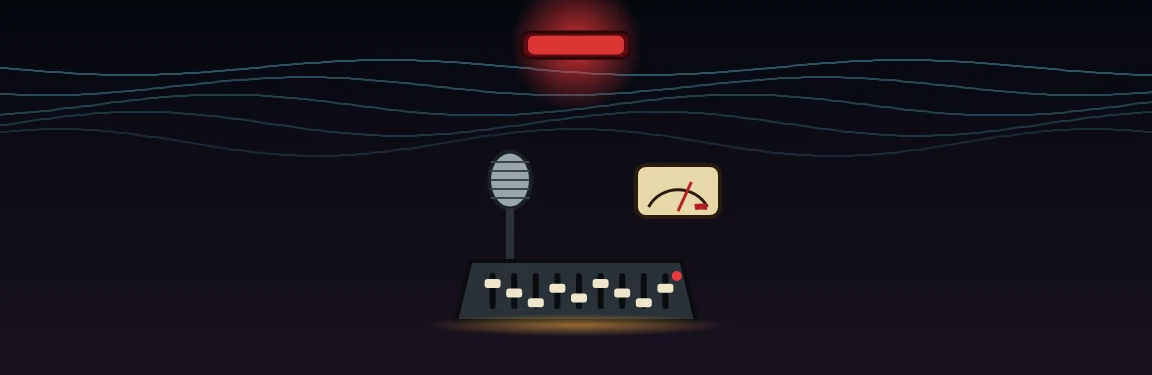
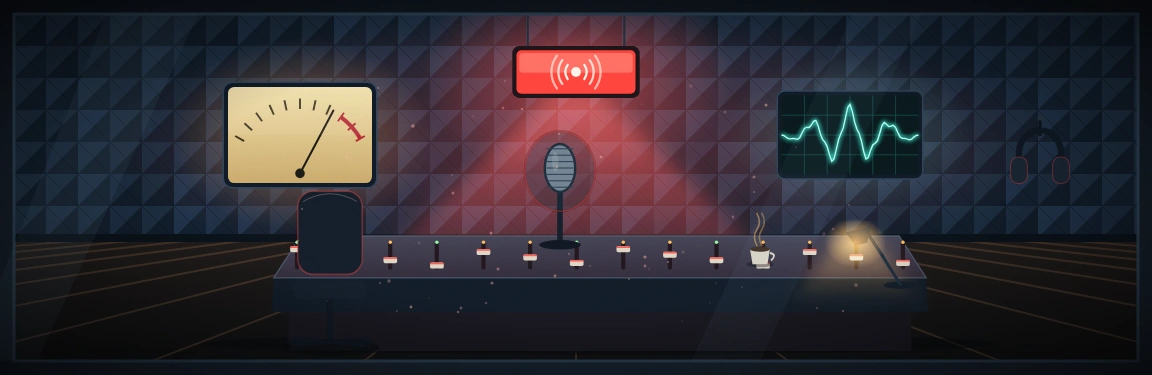
Capas, miniaturas e cartões novos dos casos 03 e 04 (cenas completas) com versão na URL (#99)
Claude-Session: https://claude.ai/code/session_015tfXN2LHrSJNSLNMARGbDc

diff --git a/js/26-rapidos.js b/js/26-rapidos.js
@@ -16,7 +16,7 @@ const rqPt=()=>ptId()&&!RQ.pno;
 const rqPaid=()=>Math.max(0,RQ.hint-(RQ.free&&rqPt()?1:0));
 window.rqDone=()=>RQC.filter(c=>RQM().done[c.id]).length;
 window.rqTabs=()=>`<div class=rqt><button class="${RQT===0?'on':''}" onclick="RQT=0;render()">Principais</button><button class="${RQT===1?'on':''}" onclick="RQT=1;render()">Rápidos <small>${rqDone()}/${RQC.length}</small></button><button class="${RQT===2?'on':''}" onclick="RQT=2;render()">Linha do tempo</button></div>`;
-window.rqList=()=>`<p class="mut rqsub">Casos curtos para jogar em poucos minutos: 3 suspeitos, algumas provas e uma contradição. Sem relógio. <b>${rqDone()} de ${RQC.length} concluídos.</b></p>${RQC.map(c=>{const d=RQM().done[c.id],p=RQM().prog[c.id],st=d?'Concluído':(p&&(p.asked.length||p.seen))?'Em andamento':'Novo';return `<button class=rqcard onclick="rqOpen('${c.id}')"><span class=rqcs><img src="assets/casos/cartao_${c.id}.webp" alt="" loading=lazy draggable=false></span><span class=rqci><b>${esc(c.titulo)}</b><small>${esc(c.cenario.local.split(',')[0])}</small><span class=rqcf>${c.suspeitos.map(s=>rqAv(c,s.id,26)).join('')}<em class="${d?'ok':''}">${d?rqStars(d):st}</em></span></span></button>`}).join('')}`;
+window.rqList=()=>`<p class="mut rqsub">Casos curtos para jogar em poucos minutos: 3 suspeitos, algumas provas e uma contradição. Sem relógio. <b>${rqDone()} de ${RQC.length} concluídos.</b></p>${RQC.map(c=>{const d=RQM().done[c.id],p=RQM().prog[c.id],st=d?'Concluído':(p&&(p.asked.length||p.seen))?'Em andamento':'Novo';return `<button class=rqcard onclick="rqOpen('${c.id}')"><span class=rqcs><img src="assets/casos/cartao_${c.id}.webp${IMV(c.id)}" alt="" loading=lazy draggable=false></span><span class=rqci><b>${esc(c.titulo)}</b><small>${esc(c.cenario.local.split(',')[0])}</small><span class=rqcf>${c.suspeitos.map(s=>rqAv(c,s.id,26)).join('')}<em class="${d?'ok':''}">${d?rqStars(d):st}</em></span></span></button>`}).join('')}`;
 window.rqOpen=id=>{const c=rqC(id),p=RQM().prog[id];RQ={id,asked:p?p.asked.slice():[],inv:p?p.inv.slice():[],seen:p?p.seen:0,hint:p?p.hint:0,ct:p?p.ct:0,tab:'su',su:null,sel:{},acc:null,fin:null,pv:null,hs:0,res:0,v:p&&p.seen?'main':'intro',nw:[],err:0,pal:p&&p.pal?Object.assign({},p.pal):{},free:p&&p.free!==undefined?p.free:!!(ptFree()&&!PTM().no[id]),pp:null,pop:0,rx:null,pf:0,cho:PTM().q[id]?0:1,pno:p&&p.pno!==undefined?p.pno:(PTM().no[id]?1:0)};if(p&&p.seen&&(p.asked.length||p.ct))RQ.res=1;render()};
 window.rqStart=()=>{RQ.v='main';RQ.seen=1;{META.how=META.how||{};if(!META.how.rq){META.how.rq=1;msave();RQ.how=1}}rqSave();rqPal();render()};
 window.rqExit=()=>{RQ=null;render()};
@@ -54,7 +54,7 @@ window.rqRc=v=>{RQ.rc=v;render()};
 window.rqHow=v=>{RQ.how=v;render()};
 const HWS={rq:['Converse com cada suspeito e leia as respostas: elas podem liberar provas novas.','Abra as provas para examinar. Algumas só aparecem depois de certas conversas.','Em Acusar, ligue a fala que não bate à prova que a desmente. Depois escolha o culpado.'],tl:['Toque na etiqueta de cada fato para ler a prova ou o depoimento. Cada fonte traz uma pista de ordem.','Segure a alça à esquerda do fato e arraste até a posição certa. As setas também movem.','Um depoimento não bate com as provas: abra-o e marque como suspeito. Depois toque em Conferir.']};
 window.howModal=(k,close)=>`<div class=rqmd onclick="${close}"><div class="rqmc rcm" onclick="event.stopPropagation()"><small>COMO JOGAR</small><h3>${k==='tl'?'Linha do tempo':'Casos rápidos'}</h3><video class=hwv src="assets/v/howto_${k}.mp4" poster="assets/v/howto_${k}.jpg" autoplay loop muted playsinline webkit-playsinline preload=auto></video><ol class=hws>${HWS[k].map(x=>`<li>${x}</li>`).join('')}</ol><button class=rqbtn onclick="${close}">Entendi</button></div></div>`;
-window.rcBrief=(c,close,tl)=>`<div class=rqmd onclick="${close}"><div class="rqmc rcm" onclick="event.stopPropagation()"><img class=rcimg src="assets/casos/mini_${c.id}.webp" alt="" draggable=false><small>${tl?'LINHA DO TEMPO':'CASO RÁPIDO'} · RELEMBRAR O CASO</small><h3>${esc(c.titulo)}</h3><p class=rcl><b>Local:</b> ${esc(c.cenario.local)}${c.cenario.horario_do_crime?`<br><b>Horário do crime:</b> ${esc(c.cenario.horario_do_crime)}`:''}</p><p class=rqp style="margin:8px 0">${esc(c.cenario.resumo)}</p><div class=rqchf>${av('chefe',44)}<p>${esc(tl?c.abertura:c.abertura_chefe)}</p></div><div class=rcs><small>QUEM ESTAVA POR PERTO</small>${c.suspeitos.map(s=>`<div class=rcr>${tl?'':rqAv(c,s.id,34)}<span><b>${esc(s.nome)}</b>${s.papel?`<i>${esc(s.papel)}${s.idade?' · '+s.idade+' anos':''}</i>`:''}</span></div>`).join('')}</div><button class="rqbtn gh" onclick="${tl?'tlRc(0);tlHow(1)':'rqRc(0);rqHow(1)'}">Como jogar</button><button class=rqbtn onclick="${close}">Fechar</button></div></div>`;
+window.rcBrief=(c,close,tl)=>`<div class=rqmd onclick="${close}"><div class="rqmc rcm" onclick="event.stopPropagation()"><img class=rcimg src="assets/casos/mini_${c.id}.webp${IMV(c.id)}" alt="" draggable=false><small>${tl?'LINHA DO TEMPO':'CASO RÁPIDO'} · RELEMBRAR O CASO</small><h3>${esc(c.titulo)}</h3><p class=rcl><b>Local:</b> ${esc(c.cenario.local)}${c.cenario.horario_do_crime?`<br><b>Horário do crime:</b> ${esc(c.cenario.horario_do_crime)}`:''}</p><p class=rqp style="margin:8px 0">${esc(c.cenario.resumo)}</p><div class=rqchf>${av('chefe',44)}<p>${esc(tl?c.abertura:c.abertura_chefe)}</p></div><div class=rcs><small>QUEM ESTAVA POR PERTO</small>${c.suspeitos.map(s=>`<div class=rcr>${tl?'':rqAv(c,s.id,34)}<span><b>${esc(s.nome)}</b>${s.papel?`<i>${esc(s.papel)}${s.idade?' · '+s.idade+' anos':''}</i>`:''}</span></div>`).join('')}</div><button class="rqbtn gh" onclick="${tl?'tlRc(0);tlHow(1)':'rqRc(0);rqHow(1)'}">Como jogar</button><button class=rqbtn onclick="${close}">Fechar</button></div></div>`;
 function rqModals(c){let m='';if(RQ.how)m+=howModal('rq','rqHow(0)');if(RQ.rc)m+=rcBrief(c,'rqRc(0)');
 if(RQ.res){const p=rqProvas(c).length;m+=`<div class=rqmd><div class=rqmc><small>RESUMO DE ONDE VOCÊ PAROU</small><h3>${esc(c.titulo)}</h3><p>Provas: ${p} de ${c.provas.length}<br>Perguntas feitas: ${RQ.asked.length} de 6<br>Contradição: ${RQ.ct?'confirmada':'ainda não marcada'}<br>Dicas usadas: ${RQ.hint} de ${c.dicas.length}</p><button class=rqbtn onclick="RQ.res=0;rqPal();render()">Continuar</button></div></div>`}
 if(RQ.pv){const p=c.provas.find(x=>x.id===RQ.pv);m+=`<div class=rqmd onclick="rqPv(null)"><div class=rqmc onclick="event.stopPropagation()">${rqIl(c.id+p.id,'width:100%;border-radius:12px',1)}<h3>${esc(p.nome)}</h3><p>${esc(p.descricao)}</p><button class=rqbtn onclick="rqPv(null)">Fechar</button></div></div>`}
@@ -64,7 +64,7 @@ const rqSay=c=>{const p=ptD();return Object.values(RQ.pal).some(v=>v==='confiar'
 function rqFinal(c){const f=RQ.fin;if(f.ok)return `<div class="rqv fin"><div class=rqfin><div class=rqfst>${rqStars(f.st)}</div><small>CASO RESOLVIDO</small><h2>${esc(c.titulo)}</h2><p>${esc(c.final.acerto)}</p><div class=rqok style="text-align:left"><small>COMO FOI</small><p>${esc(c.solucao.como)} Motivo: ${esc(c.solucao.motivo.charAt(0).toLowerCase()+c.solucao.motivo.slice(1))}</p></div><p class=rqp>Dicas usadas: ${RQ.hint}${RQ.free&&rqPt()?' (uma foi cortesia do parceiro)':''}</p>${rqPt()?`<div class=ptfin>${ptAv(ptId(),48,'a')}<p>“${esc(rqSay(c))}”</p></div>`:''}<button class=rqbtn onclick="rqExit()">Voltar aos casos rápidos</button><button class="rqbtn gh" onclick="rqReplay()">Jogar de novo</button></div></div>`;
 return `<div class="rqv fin"><div class=rqfin><small>ACUSAÇÃO ERRADA</small><h2>Ainda não foi desta vez</h2><p>${esc(c.final.erro)}</p><button class=rqbtn onclick="rqRetry()">Tentar de novo</button><button class="rqbtn gh" onclick="rqExit()">Voltar aos casos rápidos</button></div></div>`}
 function rqView(){const c=rqC(RQ.id);if(RQ.fin)return rqFinal(c);
-if(RQ.v==='intro')return `<div class="rqv intro"><div class=rqsc><img src="assets/casos/mini_${c.id}.webp" alt="" draggable=false></div><div class=rqin><small>CASO RÁPIDO · ${esc(c.cenario.local.split(',')[0]).toUpperCase()}</small><h2>${esc(c.titulo)}</h2><p class=rqres>${esc(c.cenario.resumo)}</p><div class=rqchf>${av('chefe',44)}<p>${esc(c.abertura_chefe)}</p></div>${rqPt()?`<button class=ptrow onclick="RQ.cho=1;render()">${ptAv(ptId(),34,'n')}<span>Seu parceiro: <b>${ptD().nome} ${ptD().sobrenome}</b> · trocar</span></button>`:''}<button class="rqbtn gh" onclick="rqHow(1)">Como jogar</button><button class=rqbtn onclick="rqStart()">Começar</button><button class="rqbtn gh" onclick="rqExit()">Voltar</button></div>${RQ.how?howModal('rq','rqHow(0)'):''}${ptModals(c)}</div>`;
+if(RQ.v==='intro')return `<div class="rqv intro"><div class=rqsc><img src="assets/casos/mini_${c.id}.webp${IMV(c.id)}" alt="" draggable=false></div><div class=rqin><small>CASO RÁPIDO · ${esc(c.cenario.local.split(',')[0]).toUpperCase()}</small><h2>${esc(c.titulo)}</h2><p class=rqres>${esc(c.cenario.resumo)}</p><div class=rqchf>${av('chefe',44)}<p>${esc(c.abertura_chefe)}</p></div>${rqPt()?`<button class=ptrow onclick="RQ.cho=1;render()">${ptAv(ptId(),34,'n')}<span>Seu parceiro: <b>${ptD().nome} ${ptD().sobrenome}</b> · trocar</span></button>`:''}<button class="rqbtn gh" onclick="rqHow(1)">Como jogar</button><button class=rqbtn onclick="rqStart()">Começar</button><button class="rqbtn gh" onclick="rqExit()">Voltar</button></div>${RQ.how?howModal('rq','rqHow(0)'):''}${ptModals(c)}</div>`;
 const nav=[['su','Suspeitos'],['pr','Provas'],['cv','Conversas'],['ac','Acusar']];
 return `<div class=rqv><div class=rqtop>${ib('back','Voltar aos casos rápidos','rqExit()')}<span>${esc(c.titulo)}</span>${rqPt()?`<button class=ib aria-label="Perfil do parceiro" onclick="ptPf(1)" style="padding:0">${ptAv(ptId(),34,'n')}</button>`:''}${ib('note','Relembrar o caso','rqRc(1)')}${ib('hint','Dicas da chefe','rqHs(1)')}</div><div class=rqb id=rqb>${rqBody(c)}</div><nav class=rqn>${nav.map(([k,n])=>`<button class="${RQ.tab===k?'on':''}" onclick="rqTab('${k}')">${rqIcon(k)}<span>${n}</span>${k==='pr'&&RQ.nw.length&&RQ.tab!=='pr'?'<i></i>':''}</button>`).join('')}</nav>${ptBanner()}${rqModals(c)}${ptModals(c)}</div>`}
 {const _r=render;render=function(){let sb=0;if(RQ){const b=document.getElementById('rqb');sb=b?b.scrollTop:0}_r.apply(this,arguments);if(RQ){const u=$('#ui');if(u&&u.insertAdjacentHTML){u.insertAdjacentHTML('beforeend',rqView());const b=document.getElementById('rqb');if(b){b.scrollTop=RQ.sb==='end'?b.scrollHeight:RQ.sb==='top'?0:sb;RQ.sb=0}}}}}

diff --git a/js/37-dc-tela.js b/js/37-dc-tela.js
@@ -35,7 +35,7 @@ else{n=5;t='Votem na acusação';go='ac';d='Vocês já têm contradições sufic
 return{n,t,go,d,g}}
 function dcView(){if(!DC.on||!DC.open||!DC.cs)return '';const c=DC.cs,st=dcState(),w=dcRole();
 if(st.fim)return dcFim(c,st,w);
-if(DC.v==='intro')return `<div class="rqv intro dcv">${dcHas(c.id,'mini')?`<div class=rqsc><img src="assets/casos/mini_${c.id}.webp" alt="" draggable=false></div>`:''}<div class=rqin style="padding-top:${dcHas(c.id,'mini')?14:36}px"><small>DUPLA ONLINE · ${esc(c.cenario.local.split(',')[0]).toUpperCase()}</small><h2>${esc(c.titulo)}</h2><p class=rqres>${esc(c.cenario.resumo)}</p><div class=dcme><b>Você é ${esc(dcMy())}</b><span>${dcChip(w)} · ${esc(dcPartner())} é ${dcChip(dcOth())}</span></div><div class=rqchf>${av('chefe',44)}<p>${esc((c.abertura&&c.abertura[w])||c.abertura_chefe||'')}</p></div><p class=rqp style="margin:8px 0">Cada um investiga a sua parte. Para resolver, vocês vão precisar trocar provas e falas. ${c.duracao_min?'Duração: cerca de '+c.duracao_min+' minutos.':''}</p><button class=rqbtn onclick="DC.v='main';render()">Começar</button><button class="rqbtn gh" onclick="dcBack()">Voltar à sala</button></div></div>`;
+if(DC.v==='intro')return `<div class="rqv intro dcv">${dcHas(c.id,'mini')?`<div class=rqsc><img src="assets/casos/mini_${c.id}.webp${IMV(c.id)}" alt="" draggable=false></div>`:''}<div class=rqin style="padding-top:${dcHas(c.id,'mini')?14:36}px"><small>DUPLA ONLINE · ${esc(c.cenario.local.split(',')[0]).toUpperCase()}</small><h2>${esc(c.titulo)}</h2><p class=rqres>${esc(c.cenario.resumo)}</p><div class=dcme><b>Você é ${esc(dcMy())}</b><span>${dcChip(w)} · ${esc(dcPartner())} é ${dcChip(dcOth())}</span></div><div class=rqchf>${av('chefe',44)}<p>${esc((c.abertura&&c.abertura[w])||c.abertura_chefe||'')}</p></div><p class=rqp style="margin:8px 0">Cada um investiga a sua parte. Para resolver, vocês vão precisar trocar provas e falas. ${c.duracao_min?'Duração: cerca de '+c.duracao_min+' minutos.':''}</p><button class=rqbtn onclick="DC.v='main';render()">Começar</button><button class="rqbtn gh" onclick="dcBack()">Voltar à sala</button></div></div>`;
 const nav=[['su','Suspeitos'],['pr','Provas'],['ms','Mesa'],['ac','Acusar']],T=DC.tab==='cv'?'su':DC.tab;
 return `<div class="rqv dcv"><div class=rqtop>${ib('back','Voltar à sala','dcBack()')}<span>${esc(c.titulo)}</span><button class=dcpav aria-label="Mensagens com ${esc(dcPartner())}" title="Conversar com ${esc(dcPartner())}" onclick="DC.chat=1;DC.un=0;render()">${dcAvParc(34)}<i class="dcon ${DC.conn[1-DC.me]?'on':''}"></i>${DC.un?`<em class=dcun>${DC.un}</em>`:''}</button>${ib('hint','Dicas','DC.hint=1;render()')}</div>${dcStrip(c,st,w)}<div class=rqb id=rqb>${dcBody(c,st,w)}</div><nav class=rqn>${nav.map(([k,n])=>`<button class="${T===k?'on':''}" onclick="DC.tab='${k}';DC.su=null;render()">${rqIcon(k==='ms'?'cv':k)}<span>${n}</span>${k==='ms'&&DC.un&&T!=='ms'?'<i></i>':''}</button>`).join('')}</nav>${dcModals(c,st,w)}</div>`}
 function dcStrip(c,st,w){const S=dcStage(c,st,w);return `<button class=dcflow onclick="DC.flow=1;render()" aria-label="Ver o andamento da investigação"><span class=dcsteps>${[1,2,3,4,5].map(i=>`<i class="${i<S.n?'dn':i===S.n?'cur':''}"></i>`).join('')}</span><span class=dcft><small>ETAPA ${S.n} DE 5</small><b>${esc(S.t)}</b></span><em>›</em></button>`}
@@ -126,9 +126,9 @@ const dcCasos=()=>DCC.filter(c=>!c.oculto);
 /* capas noir existentes: preencher quando as imagens forem instaladas em assets/casos */
 window.DCART=window.DCART||{};const dcHas=(id,k)=>!!(DCART[id]&&DCART[id][k]);
 window.rqTabs=()=>`<div class=rqt><button class="${RQT===0?'on':''}" onclick="RQT=0;render()">Principais</button><button class="${RQT===1?'on':''}" onclick="RQT=1;render()">Rápidos <small>${rqDone()}/${RQC.length}</small></button><button class="${RQT===2?'on':''}" onclick="RQT=2;render()">Linha do tempo</button><button class="${RQT===3?'on':''}" onclick="RQT=3;render()">Dupla</button></div>`;
-window.dcList=()=>`${DC.on?`<div class=dcbn><b>Você está na sala ${esc(DC.cod)}</b><span>${DC.cs?'Caso em andamento: '+esc(DC.cs.titulo):'Nenhum caso escolhido ainda.'}</span><div>${DC.cs?`<button onclick="dcEnter()">Voltar ao jogo</button>`:''}<button onclick="DC.st='lobby';dcMod()">Ver a sala</button></div></div>`:''}<p class="mut rqsub">Casos feitos só para <b>duas pessoas jogando juntas, cada uma no seu celular</b>. Cada um vê uma parte do caso, e só se resolve trocando provas e falas. Precisa de internet. Sem relógio.</p>${dcCasos().map(c=>`<button class=rqcard onclick="dcCard('${c.id}')"><span class="rqcs dcnoir">${dcHas(c.id,'cartao')?`<img src="assets/casos/cartao_${c.id}.webp" alt="" loading=lazy draggable=false>`:''}<i class=dcbadge>DUPLA ONLINE</i></span><span class=rqci><b>${esc(c.titulo)}</b><small>${esc(c.cenario.local.split(',')[0])} · ~${c.duracao_min||30} min</small><span class=rqcf>${c.suspeitos.slice(0,5).map(s=>dcAv(s,26)).join('')}<em>2 jogadores</em></span></span></button>`).join('')}`;
+window.dcList=()=>`${DC.on?`<div class=dcbn><b>Você está na sala ${esc(DC.cod)}</b><span>${DC.cs?'Caso em andamento: '+esc(DC.cs.titulo):'Nenhum caso escolhido ainda.'}</span><div>${DC.cs?`<button onclick="dcEnter()">Voltar ao jogo</button>`:''}<button onclick="DC.st='lobby';dcMod()">Ver a sala</button></div></div>`:''}<p class="mut rqsub">Casos feitos só para <b>duas pessoas jogando juntas, cada uma no seu celular</b>. Cada um vê uma parte do caso, e só se resolve trocando provas e falas. Precisa de internet. Sem relógio.</p>${dcCasos().map(c=>`<button class=rqcard onclick="dcCard('${c.id}')"><span class="rqcs dcnoir">${dcHas(c.id,'cartao')?`<img src="assets/casos/cartao_${c.id}.webp${IMV(c.id)}" alt="" loading=lazy draggable=false>`:''}<i class=dcbadge>DUPLA ONLINE</i></span><span class=rqci><b>${esc(c.titulo)}</b><small>${esc(c.cenario.local.split(',')[0])} · ~${c.duracao_min||30} min</small><span class=rqcf>${c.suspeitos.slice(0,5).map(s=>dcAv(s,26)).join('')}<em>2 jogadores</em></span></span></button>`).join('')}`;
 window.dcCard=id=>{DC.card=id;render()};
 window.dcCardX=()=>{DC.card=null;render()};
 function dcCardView(){const c=dcCase(DC.card);if(!c)return '';const id=c.id,hostOn=DC.on&&DC.host,guestOn=DC.on&&!DC.host,both=DC.names[0]&&DC.names[1];
 const same=DC.on&&DC.cs&&DC.cs.id===id,sala=DC.on?`<button class="rqbtn gh" onclick="DC.st='lobby';dcMod()">Ver a sala (${esc(DC.cod)})</button>`:'';const act=same?`<button class=rqbtn onclick="dcEnter()">Voltar ao jogo</button>${sala}`:hostOn&&both?`<button class=rqbtn onclick="dcStart('${id}')">Jogar este caso agora com ${esc(dcPartner())}</button>${sala}`:guestOn?`<p class=rqp>Você está numa sala como convidado(a). Quem criou a sala escolhe o caso.</p>${DC.cs?`<button class=rqbtn onclick="dcEnter()">Entrar no caso: ${esc(DC.cs.titulo)}</button>`:''}${sala}`:hostOn?`<p class=rqp>Sua sala está aberta. Quando a outra pessoa entrar, o botão para começar aparece aqui.</p>${sala}`:`<button class=rqbtn onclick="DC.want='${id}';DC.st='home';dcMod()">Criar uma sala e convidar alguém</button><button class="rqbtn gh" onclick="DC.want='${id}';DC.st='join';dcMod()">Entrar numa sala com um código</button>`;
-return `<div class="rqv intro dcv">${dcHas(id,'mini')?`<div class=rqsc><img src="assets/casos/mini_${id}.webp" alt="" draggable=false></div>`:''}<div class=rqin style="padding-top:${dcHas(id,'mini')?14:36}px"><small>JOGO EM DUPLA ONLINE · ${esc(c.cenario.local.split(',')[0]).toUpperCase()}</small><h2>${esc(c.titulo)}</h2><p class=rqres>${esc(c.cenario.resumo)}</p><div class=dcchips><span>👥 2 celulares</span><span>⏱ ~${c.duracao_min||30} min</span><span>🌐 internet</span></div><p class=dcsm>Cada um vê só a sua parte. Vocês trocam provas e falas, abrem travas juntos e votam juntos na acusação.</p>${act}<button class="rqbtn gh" onclick="dcCardX()">Voltar</button></div></div>`}
+return `<div class="rqv intro dcv">${dcHas(id,'mini')?`<div class=rqsc><img src="assets/casos/mini_${id}.webp${IMV(id)}" alt="" draggable=false></div>`:''}<div class=rqin style="padding-top:${dcHas(id,'mini')?14:36}px"><small>JOGO EM DUPLA ONLINE · ${esc(c.cenario.local.split(',')[0]).toUpperCase()}</small><h2>${esc(c.titulo)}</h2><p class=rqres>${esc(c.cenario.resumo)}</p><div class=dcchips><span>👥 2 celulares</span><span>⏱ ~${c.duracao_min||30} min</span><span>🌐 internet</span></div><p class=dcsm>Cada um vê só a sua parte. Vocês trocam provas e falas, abrem travas juntos e votam juntos na acusação.</p>${act}<button class="rqbtn gh" onclick="dcCardX()">Voltar</button></div></div>`}

diff --git a/js/21-menu.js b/js/21-menu.js
@@ -8,7 +8,7 @@ let ARQ=0,AF='all';
 function menuV(){const open=i=>TESTE||i===0||META.done[CASES[i-1].id],pd=n=>String(n).padStart(2,'0'),P=c=>META.p[c.id]||0,D=c=>META.done[c.id];
 const emb=c=>eic(EMB[c.id]?c.id:'🔎');
 const fol=(c,i,big)=>{const on=open(i),p=P(c),d=D(c),pal=PAL[i%PAL.length],lab=c.tut?'TREINAMENTO':'CASO '+pd(i),st=d?`Resolvido em ${d}`:p?`Em andamento · ${p}%`:'Não iniciado',nota=META.rk&&META.rk[c.id];
-return `<div class="csh ${on?'lk0':'lk'}" style="--a:${pal[0]}"><span class=cgrab></span><img class=cban src="assets/casos/mini_${c.id}.webp" alt="" draggable=false><div class=cth><span class=cic>${emb(c)}</span><div style="min-width:0"><small class=ceye>${lab} · ${c.num}</small><h3>${c.n}</h3><span class=mut>${c.place}</span></div></div><p class=cs2>${c.blurb}</p><div class=cchips><span>${eic('👥')} ${c.SUALL?'Suspeitos chegam aos poucos':c.SU.length+' suspeitos'}</span><span>Dificuldade <span class=pips2>${[1,2,3,4].map(n=>`<i class="${n<=c.dif?'on':''}"></i>`).join('')}</span></span>${d?`<span class=okc>✓ Resolvido${nota?' · nota '+nota:''}</span>`:''}</div><div class=bar style="margin:14px 0 6px"><i style="width:${d?100:p}%"></i></div><div class=cst>${on?st:'🔒 Conclua o caso anterior para liberar'}</div>${on?`<div class=cact>${p||d?`<button class="btn ghost" onclick="ptmStart('${c.id}',1)">Reiniciar</button>`:''}<button class=btn onclick="ptmStart('${c.id}')">${p||d?'Continuar':'Jogar'}</button></div>`:''}</div>`};
+return `<div class="csh ${on?'lk0':'lk'}" style="--a:${pal[0]}"><span class=cgrab></span><img class=cban src="assets/casos/mini_${c.id}.webp${IMV(c.id)}" alt="" draggable=false><div class=cth><span class=cic>${emb(c)}</span><div style="min-width:0"><small class=ceye>${lab} · ${c.num}</small><h3>${c.n}</h3><span class=mut>${c.place}</span></div></div><p class=cs2>${c.blurb}</p><div class=cchips><span>${eic('👥')} ${c.SUALL?'Suspeitos chegam aos poucos':c.SU.length+' suspeitos'}</span><span>Dificuldade <span class=pips2>${[1,2,3,4].map(n=>`<i class="${n<=c.dif?'on':''}"></i>`).join('')}</span></span>${d?`<span class=okc>✓ Resolvido${nota?' · nota '+nota:''}</span>`:''}</div><div class=bar style="margin:14px 0 6px"><i style="width:${d?100:p}%"></i></div><div class=cst>${on?st:'🔒 Conclua o caso anterior para liberar'}</div>${on?`<div class=cact>${p||d?`<button class="btn ghost" onclick="ptmStart('${c.id}',1)">Reiniciar</button>`:''}<button class=btn onclick="ptmStart('${c.id}')">${p||d?'Continuar':'Jogar'}</button></div>`:''}</div>`};
 const nd=CASES.filter(c=>D(c)).length,pl=TT(),PAL=[['#a37a22','#2a1d08'],['#1f7f8a','#0a2a30'],['#a32c42','#2c0a12'],['#6a46a0','#1c1030'],['#2f8a55','#0d2616'],['#b8601f','#2d1507'],['#2c66b8','#0c1c36'],['#8a8a2a','#25250c']];
 const rain='';
 const shut=()=>{const e=document.querySelector('.shov');if(e)e.remove()};
@@ -16,8 +16,8 @@ window.arqSel=k=>{warmCase(CASES[k].id);shut();const e=document.createElement('d
 if(ARQ){const f=AF,pass=(c)=>f==='all'||(f==='run'?P(c)&&!D(c):f==='new'?!P(c)&&!D(c):!!D(c)),seas={};CASES.forEach((c,k)=>{const n=c.tut?'Treinamento':'Temporada '+(c.sn||1);(seas[n]=seas[n]||[]).push(k)});
 const cpState=k=>{const c=CASES[k],on=open(k),p=P(c),d=D(c),nota=META.rk&&META.rk[c.id],tx=d?'Resolvido'+(nota?' · nota '+nota:''):p?'Em andamento · '+p+'%':on?(c.SUALL?'Suspeitos chegam aos poucos':c.SU.length+' suspeitos'):'Conclua o caso anterior',
 tag=d?'<span class="cpt ok">✓'+(nota?' '+nota:'')+'</span>':!on?'<span class="cpt lock"><svg viewBox="0 0 24 24"><rect x=5 y=11 width=14 height=9 rx=2 /><path d="M8 11V8a4 4 0 018 0v3"/></svg></span>':!p?'<span class=cpt>NOVO</span>':'';return{c,on,p,d,tx,tag}};
-const poster=k=>{const s=cpState(k),c=s.c;return `<button class="cpost ${s.on?'':'lk'}" aria-label="${c.n}. ${s.tx}" onclick="arqSel(${k})"><span class=cpi><img src="assets/casos/capa_${c.id}.webp" alt="" loading=lazy decoding=async draggable=false>${s.tag}${s.p&&!s.d?`<span class=cpb><i style="width:${s.p}%"></i></span>`:''}</span><span class=cpx>${s.tx}</span></button>`};
-const wide=k=>{const s=cpState(k),c=s.c,lab=c.tut?'TREINAMENTO':'CASO '+pd(k);return `<button class="cwd ${s.on?'':'lk'}" aria-label="${c.n}. ${s.tx}" onclick="arqSel(${k})"><img src="assets/casos/mini_${c.id}.webp" alt="" loading=lazy decoding=async draggable=false><span class=cwt><small>${c.tut?c.num:lab+' · '+c.num}</small><b>${c.n}</b><span>${c.place} · ${s.tx}</span></span>${s.tag}${s.p&&!s.d?`<span class=cpb><i style="width:${s.p}%"></i></span>`:''}</button>`};
+const poster=k=>{const s=cpState(k),c=s.c;return `<button class="cpost ${s.on?'':'lk'}" aria-label="${c.n}. ${s.tx}" onclick="arqSel(${k})"><span class=cpi><img src="assets/casos/capa_${c.id}.webp${IMV(c.id)}" alt="" loading=lazy decoding=async draggable=false>${s.tag}${s.p&&!s.d?`<span class=cpb><i style="width:${s.p}%"></i></span>`:''}</span><span class=cpx>${s.tx}</span></button>`};
+const wide=k=>{const s=cpState(k),c=s.c,lab=c.tut?'TREINAMENTO':'CASO '+pd(k);return `<button class="cwd ${s.on?'':'lk'}" aria-label="${c.n}. ${s.tx}" onclick="arqSel(${k})"><img src="assets/casos/mini_${c.id}.webp${IMV(c.id)}" alt="" loading=lazy decoding=async draggable=false><span class=cwt><small>${c.tut?c.num:lab+' · '+c.num}</small><b>${c.n}</b><span>${c.place} · ${s.tx}</span></span>${s.tag}${s.p&&!s.d?`<span class=cpb><i style="width:${s.p}%"></i></span>`:''}</button>`};
 const secs=Object.keys(seas).map(n=>{const ks=seas[n],vis=ks.filter(k=>pass(CASES[k])),dn=ks.filter(k=>D(CASES[k])).length;return vis.length?`<div class=sch><span>${n.toUpperCase()}</span><small>${dn}/${ks.length}</small></div>${vis.length===1?wide(vis[0]):`<div class=cgrid>${vis.map(poster).join('')}</div>`}`:''}).join('');
 $('#ui').innerHTML=`<div class=hmw>${rain}<div class=lamp></div><div class=hm2 style="padding-top:12px"><div class=arh>${ib('back','Voltar','ARQ=0;render()')}<div style="flex:1"><h2>Arquivo de Casos</h2><small class=mut>${nd} de ${CASES.length} resolvidos</small></div></div>${rqTabs()}${RQT?'':`<div class="bar" style="margin:10px 0 12px"><i style="width:${Math.round(nd/CASES.length*100)}%"></i></div>`}${RQT===5?espList():RQT>=3?(RQT===4?vsList():dcList()):RQT===2?tlList():RQT?rqList():`<div class=loc style="margin:0 0 4px;overflow-x:auto">${[['all','Todos'],['run','Em andamento'],['new','Novos'],['done','Resolvidos']].map(x=>`<button class="chip ${AF===x[0]?'on':''}" onclick="AF='${x[0]}';render()">${x[1]}</button>`).join('')}</div>${secs||'<p class=mut style="text-align:center;margin-top:40px">Nenhum caso nesta lista.</p>'}`}<div style="height:16px"></div></div></div>`;return}
 let cur=CASES.findIndex(c=>c.id===META.last&&P(c)&&!D(c));if(cur<0)cur=CASES.findIndex((c,i)=>open(i)&&!D(c));

diff --git a/js/39-modos.js b/js/39-modos.js
@@ -19,13 +19,13 @@ const amBar=()=>{const m=amMode();return `<button class=amchip onclick="amChoose
 window.rqTabs=()=>{const m=amMode();if(m==='coop')RQT=3;else if(m==='comp')RQT=4;else if(RQT>2&&!(RQT===5&&m==='solo'))RQT=0;
 return amBar()+(m==='solo'||m==='rev'?`<div class=rqt><button class="${RQT===0?'on':''}" onclick="RQT=0;render()">Principais</button><button class="${RQT===1?'on':''}" onclick="RQT=1;render()">Rápidos <small>${rqDone()}/${RQC.length}</small></button><button class="${RQT===2?'on':''}" onclick="RQT=2;render()">Linha do tempo</button>${m==='solo'?`<button class="${RQT===5?'on':''}" onclick="RQT=5;render()">🔒 Reservado</button>`:''}</div>`:'')};
 /* lista da corrida */
-window.vsList=()=>`${DC.on?`<div class=dcbn><b>Você está na sala ${esc(DC.cod)}</b><span>${DC.host?'Escolha um caso para chamar '+esc(DC.names[1]||'a outra pessoa')+'.':'Quem criou a sala escolhe o caso.'}</span><div><button onclick="DC.st='lobby';dcMod()">Ver a sala</button></div></div>`:''}<p class="mut rqsub">Casos feitos só para a corrida. Os dois jogam <b>o mesmo caso ao mesmo tempo, cada um no seu celular</b>. Quem acusar certo primeiro vence, e dá para atrapalhar o rival com golpes. Precisa de internet.</p>${VSC.map(c=>`<button class=rqcard onclick="vsCard('${c.id}')"><span class="rqcs dcnoir"><img src="assets/casos/cartao_${c.id}.webp" alt="" loading=lazy draggable=false><i class=dcbadge>CORRIDA ONLINE</i></span><span class=rqci><b>${esc(c.titulo)}</b><small>${esc(c.cenario.local.split(',')[0])} · ~${c.duracao_min||10} min</small><span class=rqcf>${c.suspeitos.map(s=>av('rq_'+s.id,26)).join('')}<em>2 jogadores</em></span></span></button>`).join('')}`;
+window.vsList=()=>`${DC.on?`<div class=dcbn><b>Você está na sala ${esc(DC.cod)}</b><span>${DC.host?'Escolha um caso para chamar '+esc(DC.names[1]||'a outra pessoa')+'.':'Quem criou a sala escolhe o caso.'}</span><div><button onclick="DC.st='lobby';dcMod()">Ver a sala</button></div></div>`:''}<p class="mut rqsub">Casos feitos só para a corrida. Os dois jogam <b>o mesmo caso ao mesmo tempo, cada um no seu celular</b>. Quem acusar certo primeiro vence, e dá para atrapalhar o rival com golpes. Precisa de internet.</p>${VSC.map(c=>`<button class=rqcard onclick="vsCard('${c.id}')"><span class="rqcs dcnoir"><img src="assets/casos/cartao_${c.id}.webp${IMV(c.id)}" alt="" loading=lazy draggable=false><i class=dcbadge>CORRIDA ONLINE</i></span><span class=rqci><b>${esc(c.titulo)}</b><small>${esc(c.cenario.local.split(',')[0])} · ~${c.duracao_min||10} min</small><span class=rqcf>${c.suspeitos.map(s=>av('rq_'+s.id,26)).join('')}<em>2 jogadores</em></span></span></button>`).join('')}`;
 window.vsCard=id=>{const c=VSC.find(x=>x.id===id);if(!c)return;let e=document.getElementById('vscm');if(!e){e=document.createElement('div');e.id='vscm';e.className='duo-m';e.style.zIndex=2050;document.body.appendChild(e)}
 const hostOn=DC.on&&DC.host,guestOn=DC.on&&!DC.host,both=DC.names[0]&&DC.names[1];
 const act=hostOn&&both?`<label class=vsgf><input type=checkbox ${VS.pk.gf?'checked':''} onchange="VS.pk.gf=this.checked?1:0"> <span><b>Golpes ligados</b><small>Quem investiga bem ganha golpes para atrapalhar o rival.</small></span></label><button class=dbtn onclick="document.getElementById('vscm').remove();vsStart('r','${id}')">Começar com ${esc(DC.names[1-DC.me])}</button>`
 :guestOn?`<p class=dsm>Você está numa sala como convidado(a). Quem criou a sala escolhe o caso.</p>`
 :hostOn?`<p class=dsm>Sua sala está aberta. Quando a outra pessoa entrar, o botão para começar aparece aqui.</p>`
 :`<button class=dbtn onclick="VS.want='${id}';document.getElementById('vscm').remove();DC.st='home';dcMod()">Criar uma sala e convidar alguém</button><button class="dbtn gh" onclick="VS.want='${id}';document.getElementById('vscm').remove();DC.st='join';dcMod()">Entrar numa sala com um código</button>`;
-e.innerHTML=`<div class=dcard style="text-align:left;max-height:94vh;overflow:auto"><img src="assets/casos/mini_${id}.webp" alt="" style="width:100%;border-radius:12px;margin-bottom:8px"><small>🏁 CORRIDA ONLINE · ${esc(c.cenario.local.split(',')[0]).toUpperCase()}</small><h2 style="margin:2px 0 6px">${esc(c.titulo)}</h2><p class=dsm style="margin-top:0">${esc(c.cenario.resumo)}</p><div class=dcchips><span>👥 2 celulares</span><span>⏱ ~${c.duracao_min||10} min</span><span>🌐 internet</span></div>${act}${DC.on?`<button class="dbtn gh" onclick="document.getElementById('vscm').remove();DC.st='lobby';dcMod()">Ver a sala (${esc(DC.cod)})</button>`:''}<button class="dbtn gh" onclick="document.getElementById('vscm').remove()">Voltar</button></div>`};
+e.innerHTML=`<div class=dcard style="text-align:left;max-height:94vh;overflow:auto"><img src="assets/casos/mini_${id}.webp${IMV(id)}" alt="" style="width:100%;border-radius:12px;margin-bottom:8px"><small>🏁 CORRIDA ONLINE · ${esc(c.cenario.local.split(',')[0]).toUpperCase()}</small><h2 style="margin:2px 0 6px">${esc(c.titulo)}</h2><p class=dsm style="margin-top:0">${esc(c.cenario.resumo)}</p><div class=dcchips><span>👥 2 celulares</span><span>⏱ ~${c.duracao_min||10} min</span><span>🌐 internet</span></div>${act}${DC.on?`<button class="dbtn gh" onclick="document.getElementById('vscm').remove();DC.st='lobby';dcMod()">Ver a sala (${esc(DC.cod)})</button>`:''}<button class="dbtn gh" onclick="document.getElementById('vscm').remove()">Voltar</button></div>`};
 /* primeira vez no Arquivo: pergunta o modo */
 {const _r=render;render=function(){_r.apply(this,arguments);try{if(ARQ&&MENU&&!META.ams&&!document.getElementById('amm'))amChoose()}catch(e){}}}

diff --git a/js/27-linha-tempo.js b/js/27-linha-tempo.js
@@ -11,7 +11,7 @@ const tlIc=p=>`<svg viewBox="0 0 24 24" aria-hidden=true>${p}</svg>`;
 const tlMedia=(a,m)=>/\.mp4$/i.test(a)?`<video class=pvv src="${a}" poster="${m||a.replace(/\.mp4$/i,'.png')}" controls playsinline autoplay loop muted preload=auto></video>`:`<img class=pvi src="${a}" alt="" draggable=false>`;
 const tlSL=f=>(f.fonte.tipo==='prova'?'Prova: ':'Depoimento: ')+f.fonte.nome;
 window.tlDone=()=>TLC.filter(c=>TLM().done[c.id]).length;
-window.tlList=()=>`<p class="mut rqsub">Histórias novas em que você monta a ordem dos fatos usando as pistas de cada prova e depoimento. Em cada uma, um relato não bate com as provas. Sem relógio. <b>${tlDone()} de ${TLC.length} concluídas.</b></p>${TLC.map(c=>{const d=TLM().done[c.id],p=TLM().prog[c.id],st=d?'':p&&(p.conf||p.hints)?'Em andamento':'Novo';return `<button class=rqcard onclick="tlOpen('${c.id}')"><span class=rqcs><img src="assets/casos/cartao_${c.id}.webp" alt="" loading=lazy draggable=false></span><span class=rqci><b>${esc(c.titulo)}</b><small>${esc(c.cenario.local.split(',')[0])} · ${c.fatos.length} fatos</small><span class=rqcf><em class="${d?'ok':''}" style="margin-left:0">${d?rqStars(d):st}</em></span></span></button>`}).join('')}`;
+window.tlList=()=>`<p class="mut rqsub">Histórias novas em que você monta a ordem dos fatos usando as pistas de cada prova e depoimento. Em cada uma, um relato não bate com as provas. Sem relógio. <b>${tlDone()} de ${TLC.length} concluídas.</b></p>${TLC.map(c=>{const d=TLM().done[c.id],p=TLM().prog[c.id],st=d?'':p&&(p.conf||p.hints)?'Em andamento':'Novo';return `<button class=rqcard onclick="tlOpen('${c.id}')"><span class=rqcs><img src="assets/casos/cartao_${c.id}.webp${IMV(c.id)}" alt="" loading=lazy draggable=false></span><span class=rqci><b>${esc(c.titulo)}</b><small>${esc(c.cenario.local.split(',')[0])} · ${c.fatos.length} fatos</small><span class=rqcf><em class="${d?'ok':''}" style="margin-left:0">${d?rqStars(d):st}</em></span></span></button>`}).join('')}`;
 function tlShuffle(n){const a=[...Array(n).keys()];for(let t=0;t<20;t++){for(let i=n-1;i>0;i--){const j=Math.floor(Math.random()*(i+1));[a[i],a[j]]=[a[j],a[i]]}if(a.some((v,i)=>v!==i))break}return a}
 function tlSave(){TLM().prog[TM.id]={order:TM.order,rev:TM.rev,conf:TM.conf,err:TM.err,hints:TM.hints,flag:TM.flag,ordok:TM.ordok||0,ferr:TM.ferr||0,read:TM.read||[],seen:1};msave()}
 window.tlOpen=id=>{const c=tlCase(id),p=TLM().prog[id],n=c.fatos.length,ok=p&&p.order&&p.order.length===n;TM={id,order:ok?p.order.slice():tlShuffle(n),rev:ok?(p.rev||[]).slice():[],conf:ok?p.conf||0:0,err:ok?p.err||0:0,hints:ok?p.hints||0:0,flag:ok?p.flag||null:null,ordok:ok?p.ordok||0:0,ferr:ok?p.ferr||0:0,read:ok?(p.read||[]).slice():[],pl:0,mk:null,sv:null,res:0,fin:null,msg:'',v:ok&&p.seen?'main':'intro'};if(ok&&(p.conf||p.hints||p.flag))TM.res=1;render()};
@@ -51,7 +51,7 @@ setTimeout(()=>{TM.dr=0;if(ord.join()!==TM.order.join()){TM.order=ord;TM.mk=null
 window.addEventListener('pointermove',mv);window.addEventListener('pointerup',up);window.addEventListener('pointercancel',up);raf=requestAnimationFrame(loop)};
 function tlFinal(c){const st=TM.fin.st,k=c.contradicao,found=TM.flag===k.fato;return `<div class="rqv fin"><div class=rqfin><div class=rqfst>${rqStars(st)}</div><small>LINHA DO TEMPO CONFIRMADA</small><h2>${esc(c.titulo)}</h2><p>A ordem dos fatos está certa e você achou o relato que não bate. Conferências com erro: ${TM.err}. Horários revelados: ${TM.hints}.${TM.ferr?` Relatos marcados errado: ${TM.ferr}.`:''}</p><div class=tlfl>${c.fatos.map(f=>`<div><b>${f.hora}</b><span>${esc(f.titulo)}</span></div>`).join('')}</div><div class=rqok style="text-align:left"><small>CONTRADIÇÃO ENCONTRADA</small><p>${esc(k.explicacao)}</p></div><p class=rqp>${esc(c.final)}</p><button class=rqbtn onclick="tlExit()">Voltar às linhas do tempo</button><button class="rqbtn gh" onclick="tlReplay()">Jogar de novo</button></div></div>`}
 function tlView(){const c=tlCase(TM.id);if(TM.fin)return tlFinal(c);
-if(TM.v==='intro')return `<div class="rqv intro"><div class=rqsc><img src="assets/casos/mini_${c.id}.webp" alt="" draggable=false></div><div class=rqin><small>LINHA DO TEMPO · ${esc(c.cenario.local.split(',')[0]).toUpperCase()}</small><h2>${esc(c.titulo)}</h2><p class=rqres>${esc(c.cenario.resumo)}</p><div class=rqchf>${av('chefe',44)}<p>${esc(c.abertura)}</p></div><button class="rqbtn gh" onclick="tlHow(1)">Como jogar</button><button class=rqbtn onclick="tlStart()">Começar</button><button class="rqbtn gh" onclick="tlExit()">Voltar</button></div>${TM.how?howModal('tl','tlHow(0)'):''}</div>`;
+if(TM.v==='intro')return `<div class="rqv intro"><div class=rqsc><img src="assets/casos/mini_${c.id}.webp${IMV(c.id)}" alt="" draggable=false></div><div class=rqin><small>LINHA DO TEMPO · ${esc(c.cenario.local.split(',')[0]).toUpperCase()}</small><h2>${esc(c.titulo)}</h2><p class=rqres>${esc(c.cenario.resumo)}</p><div class=rqchf>${av('chefe',44)}<p>${esc(c.abertura)}</p></div><button class="rqbtn gh" onclick="tlHow(1)">Como jogar</button><button class=rqbtn onclick="tlStart()">Começar</button><button class="rqbtn gh" onclick="tlExit()">Voltar</button></div>${TM.how?howModal('tl','tlHow(0)'):''}</div>`;
 let m='';
 if(TM.how)m+=howModal('tl','tlHow(0)');
 if(TM.pl)m+=`<div class=rqmd onclick="tlPl(0)"><div class="rqmc rcm" onclick="event.stopPropagation()"><small>SUAS ANOTAÇÕES</small><h3>Pistas que você já leu</h3>${tlPistas(c)}<button class=rqbtn onclick="tlPl(0)">Fechar</button></div></div>`;

diff --git a/js/41-reservado.js b/js/41-reservado.js
@@ -12,9 +12,9 @@ const espDel=id=>{const e=document.getElementById(id);if(e)e.remove()};
 /* ---------- lista no Arquivo ---------- */
 window.espList=()=>{const intro=`<p class="mut rqsub">Casos de <b>regras especiais</b>, um por vez. Cada um muda a forma de investigar. Só no modo Sozinho, sem parceiro.</p>`;
 if(!ESP.length)return intro+`<div class=espsoon><div class=esplk>🔒</div><b>Arquivo Reservado</b><p>O primeiro caso chega em breve. Nele, uma suspeita não diz uma palavra.</p></div>`;
-return intro+ESP.map(c=>{const p=META.p[c.id]||0,d=META.done[c.id];return `<button class=espcard onclick="espSel('${c.id}')"><span class=espimg><img src="assets/casos/mini_${c.id}.webp?v=2" alt="" loading=lazy draggable=false><i class=espb>ARQUIVO RESERVADO</i></span><span class=espx><small>${esc(c.num||'')}</small><b>${esc(c.n)}</b><span>${esc(c.place||'')}</span><span class=espm>${(c.mec||[]).map(m=>`<em>${esc(m)}</em>`).join('')}</span><span class=espst>${d?'✓ Resolvido'+(META.rk&&META.rk[c.id]?' · nota '+META.rk[c.id]:''):p?'Em andamento · '+p+'%':'Não iniciado'}</span></span></button>`}).join('')};
+return intro+ESP.map(c=>{const p=META.p[c.id]||0,d=META.done[c.id];return `<button class=espcard onclick="espSel('${c.id}')"><span class=espimg><img src="assets/casos/mini_${c.id}.webp${IMV(c.id)}" alt="" loading=lazy draggable=false><i class=espb>ARQUIVO RESERVADO</i></span><span class=espx><small>${esc(c.num||'')}</small><b>${esc(c.n)}</b><span>${esc(c.place||'')}</span><span class=espm>${(c.mec||[]).map(m=>`<em>${esc(m)}</em>`).join('')}</span><span class=espst>${d?'✓ Resolvido'+(META.rk&&META.rk[c.id]?' · nota '+META.rk[c.id]:''):p?'Em andamento · '+p+'%':'Não iniciado'}</span></span></button>`}).join('')};
 window.espSel=id=>{const c=espC(id);if(!c)return;espDel('espm');const e=espEl('espm','duo-m');e.style.zIndex=2050;const p=META.p[id]||0,d=META.done[id];
-e.innerHTML=`<div class=dcard style="text-align:left;max-height:94vh;overflow:auto"><img src="assets/casos/mini_${id}.webp?v=2" alt="" style="width:100%;border-radius:12px;margin-bottom:8px" onerror="this.remove()"><small>ARQUIVO RESERVADO · ${esc(c.num||'')}</small><h2 style="margin:2px 0 6px">${esc(c.n)}</h2><p class=dsm style="margin-top:0">${esc(c.blurb||'')}</p><div class=dcchips>${(c.mec||[]).map(m=>`<span>${esc(m)}</span>`).join('')}<span>🕵 Só sozinho</span><span>⏱ até 60 min</span></div>${p||d?`<button class=dbtn onclick="espGo('${id}')">${d?'Jogar de novo':'Continuar'}</button><button class="dbtn gh" onclick="espGo('${id}',1)">Reiniciar</button>`:`<button class=dbtn onclick="espGo('${id}')">Jogar</button>`}<button class="dbtn gh" onclick="espDel('espm')">Voltar</button></div>`};
+e.innerHTML=`<div class=dcard style="text-align:left;max-height:94vh;overflow:auto"><img src="assets/casos/mini_${id}.webp${IMV(id)}" alt="" style="width:100%;border-radius:12px;margin-bottom:8px" onerror="this.remove()"><small>ARQUIVO RESERVADO · ${esc(c.num||'')}</small><h2 style="margin:2px 0 6px">${esc(c.n)}</h2><p class=dsm style="margin-top:0">${esc(c.blurb||'')}</p><div class=dcchips>${(c.mec||[]).map(m=>`<span>${esc(m)}</span>`).join('')}<span>🕵 Só sozinho</span><span>⏱ até 60 min</span></div>${p||d?`<button class=dbtn onclick="espGo('${id}')">${d?'Jogar de novo':'Continuar'}</button><button class="dbtn gh" onclick="espGo('${id}',1)">Reiniciar</button>`:`<button class=dbtn onclick="espGo('${id}')">Jogar</button>`}<button class="dbtn gh" onclick="espDel('espm')">Voltar</button></div>`};
 window.espGo=(id,fr)=>{espDel('espm');const c=espC(id);if(!c)return;if(window.DUO&&DUO.on&&typeof duoOff==='function')duoOff();if(!CASES.includes(c))CASES.push(c);try{warmCase(id)}catch(e){}
 startCase(id,fr||(META.done[id]&&!META.p[id]?1:0));S.lv=2;LVO=0;S.eo=S.eo||{};try{save()}catch(e){}ARQ=0;render()};
 /* quando volta ao menu, o caso reservado sai da lista dos casos principais */

diff --git a/js/02-casos-lista.js b/js/02-casos-lista.js
@@ -1,3 +1,4 @@
+window.IMV=id=>({e1:'',e2:'?v=2',e3:'?v=3',e4:'?v=3'}[id]||'');
 /* primeiro nome sem deixar título sozinho (Seu, Dona, Irmã, Frei, Comandante...) */
 function nm1(n){const p=String(n).split(' ');if(/^(Dra?\.?|Sra?\.?)$/.test(p[0])&&p[1])return p[1];if(/^(Seu|Sua|Dona|Ir[mM][ãa]o?|Frei|Madre|Padre|Dom|Comandante|Cmte\.?|Capit[ãa]o|Doutor|Doutora|Madame|Mestre|Palha[cç]o)$/.test(p[0])&&p[1])return p[0]+' '+p[1];return p[0]}
 const CASES=[mkC0(),Object.assign(mkC1(),{id:'c1',key:'sisp104b',n:'A Última Xícara',num:'Inquérito nº 104/2026',place:'Mansão Sterling',blurb:'Um bioquímico morre num escritório trancado por dentro, numa noite de tempestade. Três suspeitos e um chá frio.',dif:2,t0:1392,dead:1800,thr:4,top:9,start:'office',LOCT:{copa:'q_c1',lab:'q_e1',vault:'q_e2'},LN:{copa:'Copa e portaria',lab:'Laboratório',vault:'Cofre oculto'},
